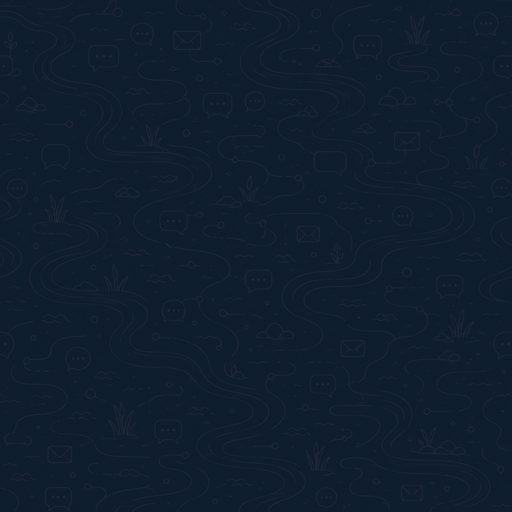
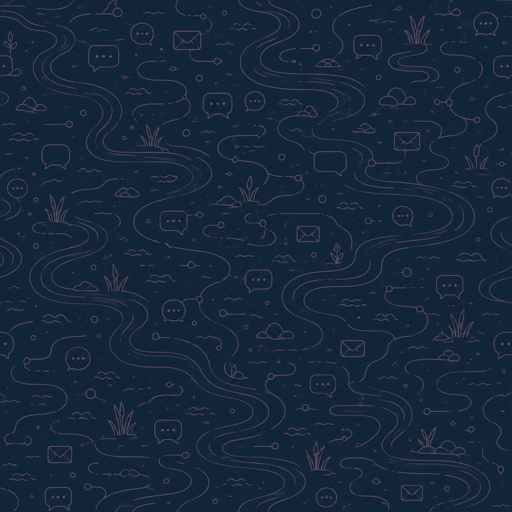
fix(macos): amplify dark chat tile strokes (user: nearly invisible)

diff --git a/dev/icon/gen-tiles.swift b/dev/icon/gen-tiles.swift
@@ -78,6 +78,11 @@ let dark = makeContext()
 dark.setFillColor(hexColor("#0D1B2A"))
 dark.fill(full)
 dark.setBlendMode(.screen)
-dark.setAlpha(0.5)
-dark.draw(inverted, in: full)
+// The inverted strokes are only ~0.2 luminance; one screen pass reads as
+// nearly invisible on midnight (user-verified). Stacked passes amplify the
+// strokes multiplicatively while the near-black background barely moves.
+dark.setAlpha(0.75)
+for _ in 0..<3 {
+    dark.draw(inverted, in: full)
+}
 writePNG(dark.makeImage()!, "chat-tile-dark.png")
